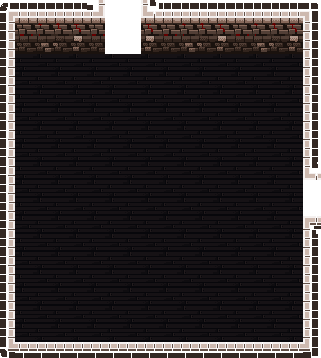
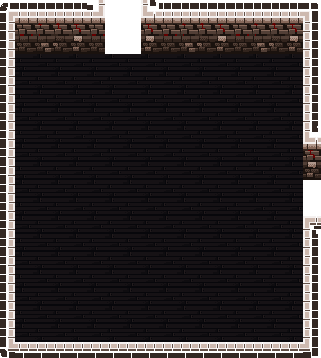
맵추가

Changed region(s): [[0.9346, 0.3687, 1.0, 0.5223]]

diff --git a/Engine_SOURCE/chPlayScene.cpp b/Engine_SOURCE/chPlayScene.cpp
@@ -147,19 +147,7 @@ namespace ch
 			monster->AddComponent<Bullet_Kin>();
 		}
 		
-		{//back ground
-			GameObject* back = object::Instantiate<GameObject>(eLayerType::BackGround, this);
-			back->SetName(L"BG");
-			Transform* backTr = back->GetComponent<Transform>();
-			backTr->SetPosition(Vector3(1.0f, 1.0f, 0.1f));
-			backTr->SetScale(Vector3(10.0f, 10.0f, 0.1f));
-
-			SpriteRenderer* backSR = back->AddComponent<SpriteRenderer>();
-			std::shared_ptr<Mesh> backmesh = Resources::Find<Mesh>(L"RectMesh");
-			std::shared_ptr<Material> backmaterial = Resources::Find<Material>(L"Map01_Material");
-			backSR->SetMaterial(backmaterial);
-			backSR->SetMesh(backmesh);
-		}
+		generateMap();
 
 
 
@@ -231,6 +219,25 @@ namespace ch
 			pool->SetBullets(containBullets[i]);
 
 		}
+
+	}
+
+	void PlayScene::generateMap()
+	{
+		{//back ground01
+			GameObject* back = object::Instantiate<GameObject>(eLayerType::BackGround, this);
+			back->SetName(L"BG01");
+			Transform* backTr = back->GetComponent<Transform>();
+			backTr->SetPosition(Vector3(0.0f, 0.0f, 0.1f));
+			backTr->SetScale(Vector3(50.0f, 61.3f, 0.1f));
+
+			SpriteRenderer* backSR = back->AddComponent<SpriteRenderer>();
+			std::shared_ptr<Mesh> backmesh = Resources::Find<Mesh>(L"RectMesh");
+			std::shared_ptr<Material> backmaterial = Resources::Find<Material>(L"MapSample_Material");
+			backSR->SetMaterial(backmaterial);
+			backSR->SetMesh(backmesh);
+		}
+		
 
 	}
 

diff --git a/Engine_SOURCE/chCameraScript.cpp b/Engine_SOURCE/chCameraScript.cpp
@@ -60,6 +60,7 @@ namespace ch
 			{
 				pos = CameraStrongShakeeffect(pos);
 			}
+			
 
 			tr->SetPosition(pos);
 		}
